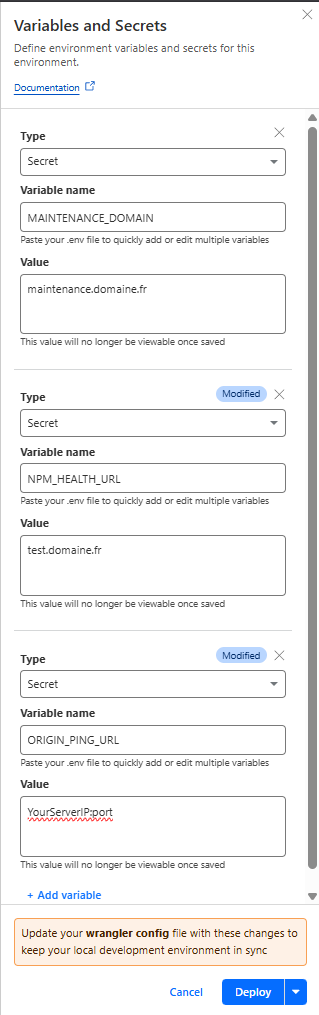
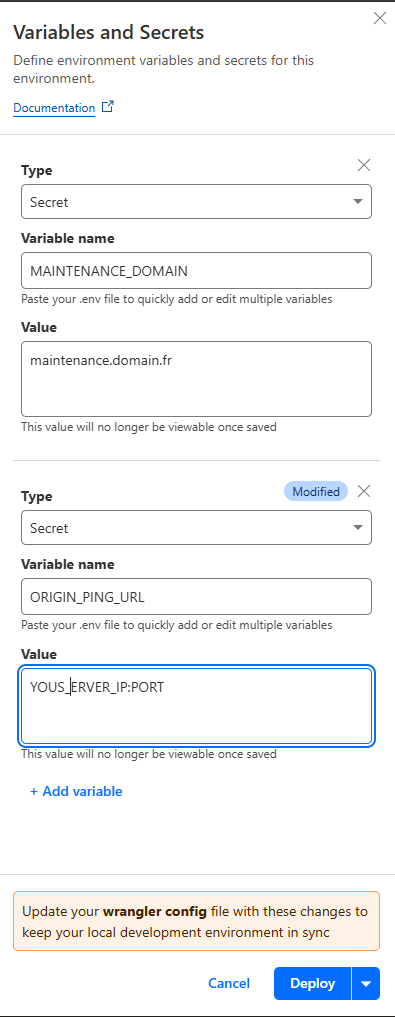
edit readme

diff --git a/README.md b/README.md
@@ -198,11 +198,11 @@ Ce projet vous permet de déployer des pages d'erreur personnalisée à l'aide d
 - Si vous n'avez pas de backup 4g sur votre serveur, faite ceci : ```ENABLE_4G_BANNER = false ```
 - Normalement, ce n'est pas nécessaire de modifier, mais vous pouvez pour chaque message d'erreur ajouter son code d'erreur pour `TEXT_BOX_ERROR_CODE`, `TEXT_TUNNEL_ERROR_CODE` et `TEXT_CONTAINER_ERROR_CODE`
 - Modifiez le texte des différents messages d'erreur si vous le voulez
-### 3. Créez un espace de noms KV
+### 3. Créez un namespace KV
 
 - Sur Cloudflare, allez dans **Storage & Databases > KV**.
 ![Créer KV](images/create_kv/create_kv.png)
-- Créez un espace de noms nommé : ``` cloudflare-worker-error-page ```
+- Créez un namespace nommé : ``` cloudflare-worker-error-page ```
 ![Ajouter nom](images/create_kv/create_kv_add_name.png)
 - Copiez l'ID du KV et ajoutez-le au champ `id` dans la section `kv_namespaces` du fichier `wrangler.toml`.
 ![Copier id](images/create_kv/create_kv_copy_id.png)
@@ -243,9 +243,8 @@ Ce projet vous permet de déployer des pages d'erreur personnalisée à l'aide d
 - Selectionner Fail open (Cela permet de quand même accéder au site si le Worker ne fonctionne plus à cause d'un bug ou du quota qui est atteint)
 ![Créer worker](images/create_worker/create_worker_9.png)
 - Dans Variables and Secrets ajoutez MAINTENANCE_DOMAIN avec le domaine créé précédemment (Ex: maintenance.domain.fr)
-- Dans Variables and Secrets NPM_HEALTH_URL avec le domaine de test créé précédemment (Ex: test.domain.fr)
-- ⚠ Pour ceux qui utilisent un tunnel Cloudflare (Zero trust) vous devez faire l'étape ci-dessous  en plus.
-- Dans Variables and Secrets ORIGIN_PING_URL avec l'IP de votre serveur et le port ouvert précédemment (Ex: 172.18.95.145:5055)
+- Dans Variables and Secrets ajoutez ORIGIN_PING_URL avec l'IP de votre serveur et le port ouvert précédemment (Ex: 172.18.95.145:5055)
+- Cliquer sur Deploy
 - ![Créer worker](images/create_worker/create_worker_10.png)
 
 
